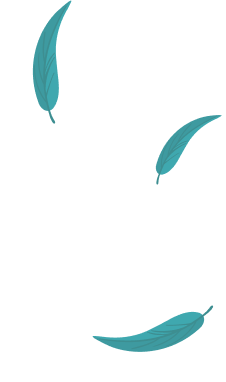
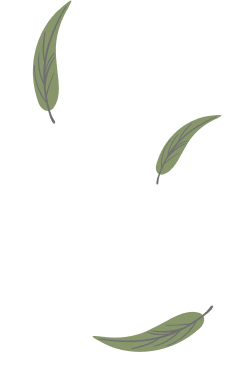
Add files via upload

Changed region(s): [[0.4027, 0.8063, 0.9292, 0.9215], [0.1239, 0.0, 0.3097, 0.3168], [0.6814, 0.288, 0.9912, 0.4895]]

diff --git a/css/style.css b/css/style.css
@@ -1,16 +1,16 @@
 /* -- Font-- */
-@import url('https://fonts.googleapis.com/css2?family=Dancing+Script:wght@400;500;600;700&display=swap');
+@import url('https://fonts.googleapis.com/css2?family=Libre+Baskerville:wght@400;700&display=swap');
 @import url('https://fonts.googleapis.com/css2?family=Cinzel+Decorative:wght@400;700;900&display=swap');
 
 /* Color System */
 :root {
-  --bg: #f4f4f4;
-  --texthl:#2a81c4;
-  --textsubhl: #646464;
+  --bg: #F6F7F7;
+  --texthl:#617245;
+  --textsubhl: #B1C291;
   --textp: #4D4C4D;
-  --bgbutton: #1D77BC;
+  --bgbutton:#CE8E2D;
   --textbutton: #FEFDFD;
-  --formbg: #cfcfcf;
+  --formbg: #e9e9e9;
   --textform: #333;
 }
 
@@ -25,7 +25,8 @@ body {
   padding: 0;
   margin: 0;
   /* font-family: 'Dancing Script', cursive; */
-  font-family: 'Cinzel Decorative', cursive;
+  /* font-family: 'Cinzel Decorative', cursive; */
+  font-family: 'Libre Baskerville', serif;
   /* background: url("../images/ornamen/bg.jpg") no-repeat; */
   background: var(--bg);
   background-size: cover;
@@ -35,17 +36,66 @@ body {
 
 .body-ornamen-left {
   position: absolute;
-  bottom: 20px;
-  width: 40px;
-  left: -20px;
+  bottom: 0px;
+  width: 67px;
+  left: -100px;
 }
 
 .body-ornamen-right {
   position: absolute;
   bottom: 0px;
-  width: 60px;
-  right: 0px;
+  width: 100px;
+  right: -100px;
   transform: rotate(50deg);
+}
+
+@media (max-width:548px) {
+  .body-ornamen-left {
+    position: absolute;
+    bottom: 0px;
+    width: 80px;
+    left: -80px;
+  }
+  
+  .body-ornamen-right {
+    position: absolute;
+    bottom: 0px;
+    width: 80px;
+    right: -60px;
+    transform: rotate(50deg);
+  }
+}
+@media (max-width:448px) {
+  .body-ornamen-left {
+    position: absolute;
+    bottom: 0px;
+    width: 60px;
+    left: -60px;
+  }
+  
+  .body-ornamen-right {
+    position: absolute;
+    bottom: 0px;
+    width: 60px;
+    right: -60px;
+    transform: rotate(50deg);
+  }
+}
+@media (max-width:408px) {
+  .body-ornamen-left {
+    position: absolute;
+    bottom: 0px;
+    width: 50px;
+    left: -20px;
+  }
+  
+  .body-ornamen-right {
+    position: absolute;
+    bottom: 0px;
+    width: 60px;
+    right: -20px;
+    transform: rotate(50deg);
+  }
 }
 
 
@@ -84,7 +134,9 @@ h2,
 h3,
 h4,
 h5,
-h6 {
+h6, 
+.more-btn,
+.portfolio h1 {
   margin: 0;
   padding: 0;
   text-align: center;
@@ -139,8 +191,9 @@ a:hover {
 }
 
 /* Ornamen  */
-.top-left{
-  width: 120px;
+.top{
+  width: 100%;
+  height: 200px;
   position: absolute;
   top: 0;
   left: 0;
@@ -172,25 +225,21 @@ a:hover {
 }
 
 .rslide li .couple {
-  background: url("../images/gallery/Flat_Illustration.png") center;
+  border: 10px solid var(--bgbutton);
+  background: url("../images/gallery/gallery-8.jpg") center;
   width: 250px;
   height: 250px;
   background-size: cover;
   display: block;
   margin: auto;
-  margin-top: 2em;
+  margin-top: 1em;
   border-radius: 50%;
   position: relative;
 }
 
-.rslide li .name{
- width: 300px;
-display: block;
-margin: auto;
- margin-top: 15px;
- margin-bottom: 15px;
-}
+
 .rslide li h3 {
+  margin-top: 3em;
   font-weight: bold;
   font-size: 4rem;
   text-align: center;
@@ -200,7 +249,9 @@ margin: auto;
   font-weight: bold;
   font-size: 3rem;
   text-align: center;
+  font-family: 'Libre Baskerville', serif;
   line-height: 40px;
+  margin: .5em 0 1em;
 }
 .rslide li h5 {
   font-size: 2rem;
@@ -227,7 +278,6 @@ margin: auto;
   display: flex;
   justify-content: center;
   text-align: center;
-	margin-top:1em;
 }
 #countdown ul li {
   display: flex;
@@ -274,6 +324,7 @@ margin: auto;
   color: var(--textbutton);
   outline: none;
   border: none;
+  font-family: 'Cinzel Decorative', cursive;
 }
 .btn-primary:hover, .btn-primary:focus {
   background: var(--bgbutton);
@@ -391,7 +442,7 @@ margin: auto;
 .video-box .play-btn {
   width: 84px;
   height: 84px;
-  background: radial-gradient(var(--bgbutton) 50%, rgba(48, 107, 233, 0.267) 52%);
+  background: radial-gradient(var(--bgbutton) 50%, rgba(223, 203, 92, 0.267) 52%);
   border-radius: 50%;
   display: block;
   position: absolute;
@@ -3913,12 +3964,7 @@ textarea {
 }
 
 @media screen and (max-width: 480px) {
-  .rslide li .couple {
-    margin: auto;
-    margin-top: 30px;
-    display: block;
-    width: 70%;
-  }
+  
   .rslide li .name {
    margin: auto;
    display: block;
@@ -3967,7 +4013,9 @@ textarea {
 
 .portfolio h1 {
   font-size: 27px;
+  font-weight: 500;
 }
+  
 
   .projects h1,
   .awards h3,

diff --git a/index.html b/index.html
@@ -17,7 +17,7 @@
       gtag("config", "UA-178551496-2");
     </script>
 
-    <title>GateMarried | Flat Design</title>
+    <title>GateMarried | Green Leaves</title>
 
     <!-- Meta-Tags -->
     <meta name="viewport" content="width=device-width, initial-scale=1" />
@@ -78,7 +78,7 @@
 
     <div class="header agileits" id="home" >
       <!-- Jumbotron -->
-      <img src="./images/ornamen/left-top.png" alt="" class="top-left">
+      <img src="./images/ornamen/middle-top.png" alt="" class="top">
       <div class="slider agileits">
         <div class="slider-1 agileits">
           <ul class="rslide agileits" id="slider1">
